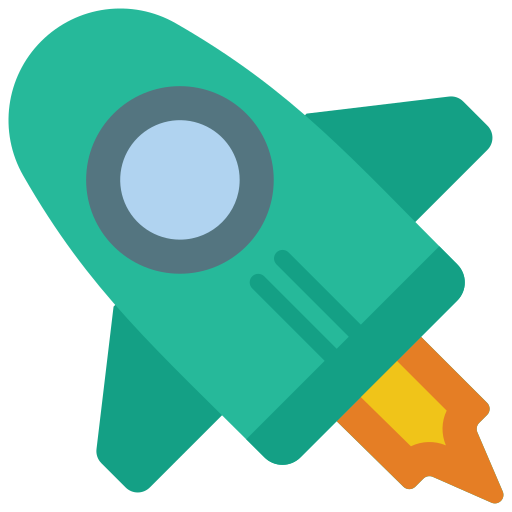
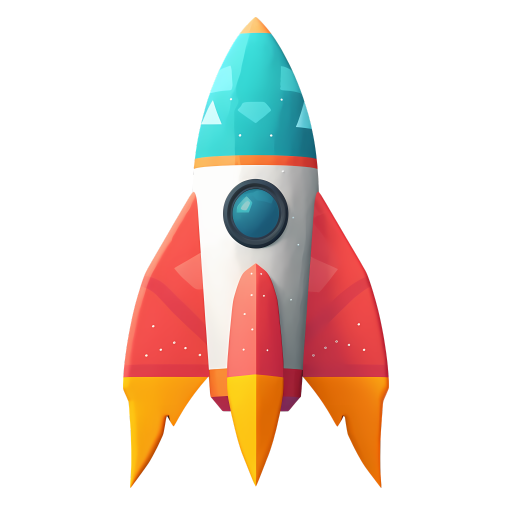
animazioni fluide, razzo con la fiamma, cometa sui giri gratis

diff --git a/giochi/slot/slot.py b/giochi/slot/slot.py
@@ -440,7 +440,7 @@ NOMI_TEMA = {
         "carte": "Earth", "roulette": "Saturn", "fiches": "Comet",
         "gemma": "Alien", "bar": "Rocket", "sette": "Sun",
         "dollaro": "Galaxy", "palla8": "Nebula",
-        "jolly": "Space",
+        "jolly": "Space", "dadi": "Comet",
     },
 }
 # le poche che cambiano da lingua a lingua
@@ -453,7 +453,7 @@ NOMI_TEMA_LINGUA = {
                "carte": "Terra", "roulette": "Saturno", "fiches": "Cometa",
                "gemma": "Alieno", "bar": "Razzo", "sette": "Sole",
                "dollaro": "Galassia", "palla8": "Nebulosa",
-               "jolly": "Spazio"},
+               "jolly": "Spazio", "dadi": "Cometa"},
         "fr": {"ciliegia": "Asteroide", "limone": "Ceres", "prugna": "Eris",
                "mela": "Pluton", "fragola": "Lune", "anguria": "Mercure",
                "uva": "Venus", "cuori": "Mars", "picche": "Exoplanete",
@@ -461,7 +461,7 @@ NOMI_TEMA_LINGUA = {
                "carte": "Terre", "roulette": "Saturne", "fiches": "Comete",
                "gemma": "Alien", "bar": "Fusee", "sette": "Soleil",
                "dollaro": "Galaxie", "palla8": "Nebuleuse",
-               "jolly": "Espace"},
+               "jolly": "Espace", "dadi": "Comete"},
         "es": {"ciliegia": "Asteroide", "limone": "Ceres", "prugna": "Eris",
                "mela": "Pluton", "fragola": "Luna", "anguria": "Mercurio",
                "uva": "Venus", "cuori": "Marte", "picche": "Exoplaneta",
@@ -469,7 +469,7 @@ NOMI_TEMA_LINGUA = {
                "carte": "Tierra", "roulette": "Saturno", "fiches": "Cometa",
                "gemma": "Alien", "bar": "Cohete", "sette": "Sol",
                "dollaro": "Galaxia", "palla8": "Nebulosa",
-               "jolly": "Espacio"},
+               "jolly": "Espacio", "dadi": "Cometa"},
     },
 }
 
@@ -647,6 +647,113 @@ def tema():
 
 
 NUDE = {}
+
+
+def fotogramma(fr, pos):
+    """Il fotogramma alla posizione chiesta, che pero' non e' un numero
+    intero: fra un fotogramma e quello dopo si sfuma. Senza questo un
+    disegno che cambia due volte al secondo si vede scattare; sfumando,
+    gli stessi identici fotogrammi scorrono lisci."""
+    n = len(fr)
+    if n < 2:
+        return fr[0]
+    pos = pos % n
+    i = int(pos)
+    k = pos - i
+    if k < 0.02:
+        return fr[i]
+    try:
+        import numpy as np
+    except ImportError:
+        return fr[i]
+    a, b = fr[i], fr[(i + 1) % n]
+    if a.get_size() != b.get_size():
+        return fr[i]
+    # si mescola tenendo conto della trasparenza, se no dove uno dei due
+    # e' trasparente esce il nero che ci sta sotto
+    aa = pygame.surfarray.array_alpha(a).astype("float32") / 255.0
+    ab = pygame.surfarray.array_alpha(b).astype("float32") / 255.0
+    al = aa * (1.0 - k) + ab * k
+    pm = (pygame.surfarray.array3d(a).astype("float32") * aa[:, :, None] *
+          (1.0 - k) +
+          pygame.surfarray.array3d(b).astype("float32") * ab[:, :, None] * k)
+    rgb = pm / np.maximum(al, 1e-4)[:, :, None]
+    sup = pygame.Surface(a.get_size(), pygame.SRCALPHA)
+    pygame.surfarray.blit_array(sup, np.clip(rgb, 0, 255).astype("uint8"))
+    pygame.surfarray.pixels_alpha(sup)[:, :] = np.clip(
+        al * 255, 0, 255).astype("uint8")
+    return sup
+
+
+def sposta_fine(img, fx, fy):
+    """Sposta il disegno di una frazione di pixel. Serve a chi si muove
+    piano: un galleggiamento di quattro pixel in sette secondi, potendosi
+    posare solo su pixel interi, sta fermo mezzo secondo e poi salta.
+    Spostandolo per meta' pixel scorre liscio come il tremolio dei dadi,
+    che sembra fluido solo perche' e' veloce."""
+    w, h = img.get_size()
+    try:
+        import numpy as np
+    except ImportError:
+        return img
+    fx = min(max(fx, 0.0), 1.0)
+    fy = min(max(fy, 0.0), 1.0)
+    al = pygame.surfarray.array_alpha(img).astype("float32") / 255.0
+    pm = pygame.surfarray.array3d(img).astype("float32") * al[:, :, None]
+    # la tela e' sempre un pixel piu' grande, cosi' la cornice non cambia
+    # di misura da un fotogramma all'altro
+    gpm = np.zeros((w + 1, h + 1, 3), "float32")
+    gal = np.zeros((w + 1, h + 1), "float32")
+    for ox, oy, peso in ((0, 0, (1 - fx) * (1 - fy)), (1, 0, fx * (1 - fy)),
+                         (0, 1, (1 - fx) * fy), (1, 1, fx * fy)):
+        if peso <= 0.0:
+            continue
+        gpm[ox:ox + w, oy:oy + h] += pm * peso
+        gal[ox:ox + w, oy:oy + h] += al * peso
+    rgb = gpm / np.maximum(gal, 1e-4)[:, :, None]
+    sup = pygame.Surface((w + 1, h + 1), pygame.SRCALPHA)
+    pygame.surfarray.blit_array(sup, np.clip(rgb, 0, 255).astype("uint8"))
+    pygame.surfarray.pixels_alpha(sup)[:, :] = np.clip(
+        gal * 255, 0, 255).astype("uint8")
+    return sup
+
+
+def con_fiamma(img, forza, tt, fase=0.0):
+    """La spinta dietro al razzo. Il pennacchio si disegna sotto, su una
+    tela piu' alta, e si SOMMA alla luce invece di coprirla: il fuoco non
+    ha un contorno, e' luce. La fiammata si allunga e si accorcia da se',
+    con due ritmi diversi, cosi' non si sente il ciclo."""
+    try:
+        import numpy as np
+    except ImportError:
+        return img
+    w, h = img.get_size()
+    lungo = max(8, int(h * 0.78))
+    sfuria = (0.74 + 0.20 * math.sin(tt * 9.0 + fase) +
+              0.10 * math.sin(tt * 15.7 + fase * 1.7))
+    yy, xx = np.meshgrid(np.arange(h + lungo), np.arange(w), indexing="ij")
+    yy = yy.astype("float32")
+    xx = xx.astype("float32")
+    y0 = h * 0.90
+    t = np.clip((yy - y0) / (lungo * sfuria), 0.0, 1.0)
+    vivo = (yy >= y0) & (t < 1.0)
+    # il getto ondeggia piano mentre scende
+    cx = w * 0.5 + np.sin(t * 5.5 + tt * 6.0 + fase) * w * 0.025 * t
+    largo = np.maximum(w * 0.035, w * 0.150 * (1.0 - t * 0.62))
+    calore = np.exp(-((xx - cx) / largo) ** 2) * (1.0 - t) ** 1.15 * vivo
+    calore *= forza * 1.25 * (0.85 + 0.15 * math.sin(tt * 21.0 + fase))
+    rgb = np.zeros((w, h + lungo, 3), "float32")
+    c = calore.T
+    # dal bianco al giallo all'arancio: il cuore e' quasi bianco
+    rgb += (c ** 2.6)[:, :, None] * np.array([255, 250, 225], "float32")
+    rgb += (c ** 1.5)[:, :, None] * np.array([255, 186, 60], "float32") * 0.95
+    rgb += c[:, :, None] * np.array([255, 92, 30], "float32") * 0.70
+    alfa = np.clip(c * 1.35, 0, 1) * 255
+    sup = pygame.Surface((w, h + lungo), pygame.SRCALPHA)
+    pygame.surfarray.blit_array(sup, np.clip(rgb, 0, 255).astype("uint8"))
+    pygame.surfarray.pixels_alpha(sup)[:, :] = alfa.astype("uint8")
+    sup.blit(img, (0, 0))
+    return sup
 
 
 def misura_simbolo(nome, misura):
@@ -1010,7 +1117,8 @@ ANIMAZIONI = {
         "limone": {"gira": 0.80},                # Cerere, 9 ore
         "arancia": {"gira": 0.52},               # Makemake, 22 ore
         "prugna": {"gira": 0.47},                # Eris, 26 ore
-        "mela": {"gira": 0.30},                  # Plutone, 6 giorni
+        # Plutone e' un nano: gira, ma sta piccolo
+        "mela": {"gira": 0.30, "misura": 0.58},  # Plutone, 6 giorni
         "fragola": {"gira": 0.22},               # Luna, 27 giorni
         "anguria": {"gira": 0.18},               # Mercurio, 59 giorni
         "uva": {"gira": -0.14},                  # Venere, al contrario
@@ -1026,17 +1134,21 @@ ANIMAZIONI = {
         # la cometa non e' una sfera: fluttua e lascia la scia
         "fiches": {"onda": 0.05, "scia": 60, "verso": (-1.0, 0.30),
                    "colore": (150, 200, 255), "misura": 0.67},
-        "sette": {"gira": 0.20},                 # il Sole, 25 giorni
         # la galassia a spirale: disegnata dal codice, gira su se stessa
         "dollaro": {"galassia": 0.06, "misura": 1.95},
         # la nebulosa non e' una PNG: la disegna il codice, tre veli di
         # nebbia che scorrono uno sull'altro e le stelle che brillano
         "palla8": {"nebbia": 0.18,
                    "colori": ((188, 92, 224), (236, 96, 168), (86, 150, 255))},
+        # il razzo: balla come i dadi, perche' si muove mentre va, e
+        # dietro ha la fiammata che lo spinge
+        "bar": {"trema": 0.030, "fiamma": 1.0, "misura": 0.86},
         # la targa SPACE: respira e si accende
         "jolly": {"onda": 0.03, "lampo": 0.22},
-        # i dadi ballano, il regalo batte, il jackpot lampeggia
-        "dadi": {"trema": 0.035},
+        # i giri gratis li porta la cometa: fluttua e lascia la scia
+        "dadi": {"onda": 0.05, "scia": 60, "verso": (-1.0, 0.30),
+                 "colore": (150, 200, 255), "misura": 0.67},
+        # il regalo batte, il jackpot lampeggia
         "regalo": {"batte": 0.10},
         "jackpot": {"lampo": 0.40, "batte": 0.06},
     },
@@ -1278,8 +1390,9 @@ def frames_galassia(misura, quanti=None):
     r = np.sqrt(u * u + v * v) + 1e-4
     th = np.arctan2(v, u)
     dentro = r <= 1.0
-    nucleo = np.exp(-(r / 0.16) ** 2)         # il cuore acceso
-    alone = np.exp(-(r / 0.42) ** 2) * 0.55
+    nucleo = np.exp(-(r / 0.10) ** 2)         # il cuore acceso
+    bulbo = np.exp(-(r / 0.26) ** 2)          # il rigonfiamento giallo
+    alone = np.exp(-(r / 0.40) ** 2) * 0.30
     # la granella di stelle sparse dentro al disco
     rnd = np.random.RandomState(11)
     grana = (rnd.rand(w, h) > 0.985).astype(np.float32) * rnd.rand(w, h)
@@ -1296,35 +1409,53 @@ def frames_galassia(misura, quanti=None):
     for f in range(quanti):
         fase = math.pi * f / float(quanti)    # mezzo giro: due bracci
         # spirale logaritmica: l'angolo cresce col logaritmo del raggio
-        onda = np.cos(2.0 * (th - 2.6 * np.log(r) + fase))
-        bracci = np.clip(onda, 0, 1) ** 1.7 * np.exp(-r / 0.62) * (r > 0.06)
+        onda = np.cos(2.0 * (th - 3.3 * np.log(r) + fase))
+        bracci = (np.clip(onda, 0, 1) ** 2.6 * np.exp(-r / 0.60) *
+                  (r > 0.06))
         # la corsia di polvere: una seconda spirale sfasata che TOGLIE
         # luce invece di darne. E' quella che spezza i bracci e li fa
         # sembrare veri invece che due virgole disegnate
-        buio = np.clip(np.cos(2.0 * (th - 2.6 * np.log(r) + fase - 0.42)),
-                       0, 1) ** 3.0 * np.exp(-r / 0.55) * 0.55
+        buio = np.clip(np.cos(2.0 * (th - 3.3 * np.log(r) + fase - 0.40)),
+                       0, 1) ** 2.4 * np.exp(-r / 0.58) * 0.80
         # il velo diffuso che riempie fra un braccio e l'altro
-        velo = np.exp(-(r / 0.72) ** 2) * 0.30
-        d = np.clip(bracci * 1.5 + alone + velo - buio, 0, 1)
+        velo = np.exp(-(r / 0.72) ** 2) * 0.20
+        d = np.clip(bracci * 1.7 + alone + velo - buio, 0, 1)
         rgb = np.zeros((w, h, 3), np.float32)
         # i bracci azzurri con le stelle rosa dentro, il nucleo caldo
-        rgb += d[:, :, None] * np.array([110, 160, 255], np.float32)
+        rgb += (d * (1.0 - bulbo * 0.80))[:, :, None] * np.array(
+            [104, 152, 250], np.float32) * 0.94
         # le nubi rosa lungo i bracci: nelle galassie vere sono le zone
         # dove nascono le stelle, ed e' quello che le fa colorate
         nubi = np.roll(rosa, int(round(fase / math.pi * w)), axis=0)
         fiore = np.clip(bracci * 2.2, 0, 1) * nubi
-        rgb += fiore[:, :, None] * np.array([255, 96, 168], np.float32) * 1.4
-        rgb += (d ** 3)[:, :, None] * np.array([190, 120, 255], np.float32)
+        rgb += fiore[:, :, None] * np.array([255, 78, 150],
+                                            np.float32) * 1.75
+        rgb += (d ** 3)[:, :, None] * np.array([190, 120, 255],
+                                               np.float32) * 0.35
         # l'alone caldo che avvolge tutto il disco
         rgb += (velo * 1.6)[:, :, None] * np.array([120, 90, 190], np.float32)
+        # la nebbiolina: una foschia rosa larga, che esce oltre i bracci,
+        # e una celeste piu' stretta che riempie fra un braccio e
+        # l'altro. In Andromeda e' quella che si vede intorno al disco:
+        # senza, restano due virgole azzurre e sembra un disegno
+        foschia = (np.exp(-((r - 0.58) / 0.34) ** 2) *
+                   (0.22 + 0.40 * np.clip(onda, 0, 1)))
+        rgb += (foschia[:, :, None] *
+                np.array([255, 128, 190], np.float32) * 0.62)
+        celeste = (np.exp(-(r / 0.66) ** 2) *
+                   np.clip(0.90 - bracci, 0, 1) * 0.42)
+        rgb += celeste[:, :, None] * np.array([120, 205, 255], np.float32)
         # la granella di stelle, che gira insieme al disco
         gr = np.roll(grana, int(round(fase / math.pi * w)), axis=0)
         stelline = gr * np.clip(d * 1.6, 0, 1)
         rgb += stelline[:, :, None] * np.array([235, 245, 255], np.float32)
         rgb += (nucleo[:, :, None] *
-                np.array([255, 224, 150], np.float32) * 1.5)
-        alfa = np.clip(d * 1.6 + nucleo * 1.6 + stelline + fiore * 0.8,
-                       0, 1) * dentro
+                np.array([255, 224, 158], np.float32) * 0.90)
+        rgb += (bulbo[:, :, None] *
+                np.array([255, 202, 120], np.float32) * 0.86)
+        alfa = np.clip(d * 1.7 + nucleo * 1.9 + bulbo * 1.15 +
+                       stelline + fiore * 0.8 +
+                       foschia * 0.58 + celeste * 0.50, 0, 1) * dentro
         # il bordo che sfuma, se no si vede il cerchio netto
         alfa *= np.clip((1.0 - r) / 0.28, 0, 1)
         sup = pygame.Surface((w, h), pygame.SRCALPHA)
@@ -1858,11 +1989,16 @@ class Macchina:
         if fr:
             quanto = (an.get("galassia") or an.get("pleiadi")
                       or an.get("nebbia"))
-            img = fr[int(tt * quanto * len(fr)) % len(fr)]
+            img = fotogramma(fr, tt * quanto * len(fr))
         elif an.get("gira"):
             fr = frames_giro(nome, grande)
             if fr:
-                img = fr[int(tt * an["gira"] * len(fr)) % len(fr)]
+                passo = tt * an["gira"] * len(fr)
+                # chi gira svelto ha gia' piu' fotogrammi di quanti se ne
+                # vedano: e' chi gira piano che va sfumato
+                veloci = abs(an["gira"]) * len(fr) * VELOCITA
+                img = (fr[int(passo) % len(fr)] if veloci >= 60.0
+                       else fotogramma(fr, passo))
         if img is None:
             img = figura(nome, misura)
         # la moneta gira di taglio: si schiaccia e si riapre
@@ -1883,6 +2019,9 @@ class Macchina:
             q = int(max(0, min(255, 255 * v)))
             img = img.copy()
             img.fill((255, 255, 255, q), special_flags=pygame.BLEND_RGBA_MULT)
+        # la fiamma del razzo: la spinta dietro
+        if an.get("fiamma"):
+            img = con_fiamma(img, an["fiamma"], tt, fase)
         dx = dy = 0.0
         onda = an.get("onda", 0.0)
         if onda:
@@ -1893,6 +2032,13 @@ class Macchina:
         if tr:
             dx += math.sin(tt * 23.0 + fase * 3) * misura[0] * tr
             dy += math.cos(tt * 19.0 + fase * 5) * misura[1] * tr
+        # il mezzo pixel: lo spostamento intero va alla cornice, quello
+        # che avanza si disegna dentro al simbolo. Senza, chi si muove
+        # piano scatta da un pixel all'altro
+        if dx or dy:
+            ix, iy = math.floor(dx), math.floor(dy)
+            img = sposta_fine(img, dx - ix, dy - iy)
+            dx, dy = float(ix), float(iy)
         return img, (dx, dy)
 
     def disegna_ultime(self):
